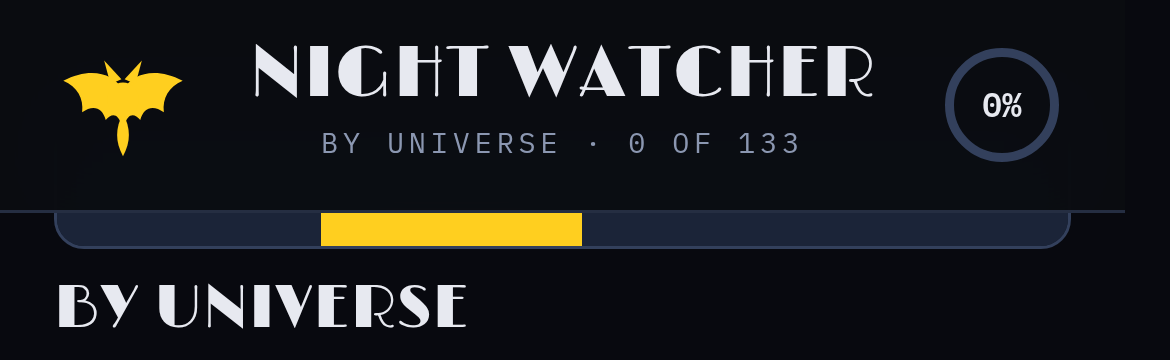
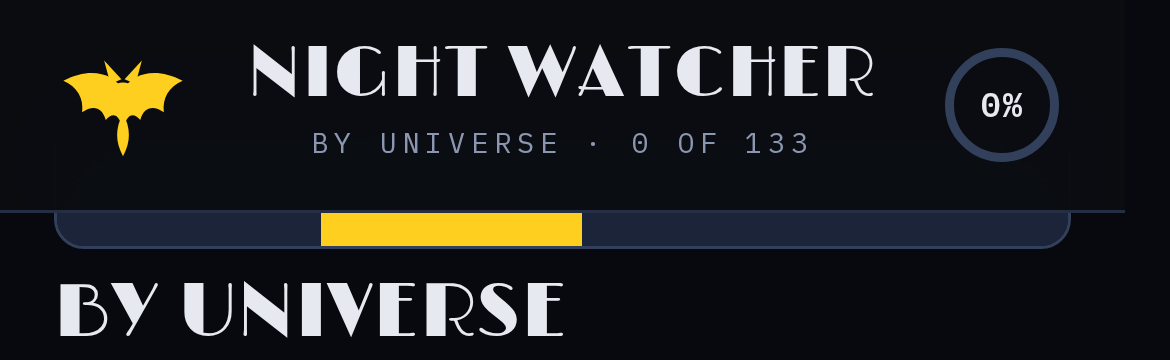
Add files via upload

diff --git a/docs/index.html b/docs/index.html
@@ -41,7 +41,7 @@
 <meta name="application-name" content="Night Watcher">
 <meta name="msapplication-TileColor" content="#0C111C">
 <meta name="msapplication-TileImage" content="mstile-144x144.png">
-<meta http-equiv="Content-Security-Policy" content="default-src 'none'; script-src 'sha256-mveooX+d1nDvuyGfLbQQbO2nfkmC6RJIhbQhHmuclJs='; style-src 'self' 'unsafe-inline'; font-src 'self'; img-src 'self' data:; manifest-src 'self'; worker-src 'self'; base-uri 'none'; form-action 'none'; object-src 'none'">
+<meta http-equiv="Content-Security-Policy" content="default-src 'none'; script-src 'sha256-Iym1FjqeDL4tFvP/+oKyjjoU5gTvB82LP6l9k8boErc='; style-src 'self' 'unsafe-inline'; font-src 'self'; img-src 'self' data:; manifest-src 'self'; worker-src 'self'; base-uri 'none'; form-action 'none'; object-src 'none'">
 <meta name="referrer" content="strict-origin-when-cross-origin">
 <script type="application/ld+json">{"@context":"https://schema.org","@graph":[{"@type":"WebSite","name":"Night Watcher","url":"https://nightwatcher.life/","description":"Batman watch orders that spoil nothing."},{"@type":"WebApplication","name":"Night Watcher","url":"https://nightwatcher.life/","applicationCategory":"EntertainmentApplication","image":"https://nightwatcher.life/share.png","dateModified":"2026-08-11","author":{"@type":"Person","name":"6ummy-Dev","url":"https://github.com/6ummy-Dev"},"creator":{"@type":"Person","name":"6ummy-Dev","url":"https://github.com/6ummy-Dev"},"sameAs":["https://github.com/6ummy-Dev/Night-Watcher","https://x.com/6ummy"],"operatingSystem":"Any","browserRequirements":"Requires JavaScript","isAccessibleForFree":true,"featureList":["No account and no sign-in","No advertising and nothing tracking what you watch","Progress stays in your browser and is never sent anywhere","Works offline","Spoiler-safe ordering by continuity"],"description":"Every Batman story — 133 films and 67 seasons of TV across 44 continuities — in watch orders that spoil nothing. By universe, by the arc of one life, or by release."},{"@type":"ItemList","name":"The essentials and the core route","description":"The 74 curated Batman titles — every essential and the whole core route — in spoiler-safe order.","numberOfItems":74,"itemListOrder":"https://schema.org/ItemListOrderAscending","itemListElement":[{"@type":"ListItem","position":1,"name":"Gotham (2014)"},{"@type":"ListItem","position":2,"name":"Batman: The Animated Series (1992)"},{"@type":"ListItem","position":3,"name":"Batman: Mask of the Phantasm (1993)"},{"@type":"ListItem","position":4,"name":"Batman & Mr. Freeze: SubZero (1998)"},{"@type":"ListItem","position":5,"name":"The New Batman Adventures (1998)"},{"@type":"ListItem","position":6,"name":"Batman: Mystery of the Batwoman (2003)"},{"@type":"ListItem","position":7,"name":"Justice League (2001)"},{"@type":"ListItem","position":8,"name":"Justice League Unlimited (2006)"},{"@type":"ListItem","position":9,"name":"Batman and Harley Quinn (2017)"},{"@type":"ListItem","position":10,"name":"Batman Beyond (1999)"},{"@type":"ListItem","position":11,"name":"Batman Beyond: Return of the Joker (2000)"},{"@type":"ListItem","position":12,"name":"Batman: Year One (2011)"},{"@type":"ListItem","position":13,"name":"Batman: The Killing Joke (2016)"},{"@type":"ListItem","position":14,"name":"Batman: Death in the Family (2020)"},{"@type":"ListItem","position":15,"name":"Batman: Under the Red Hood (2010)"},{"@type":"ListItem","position":16,"name":"The Dark Knight Returns — Part One (2012)"},{"@type":"ListItem","position":17,"name":"The Dark Knight Returns — Part Two (2013)"},{"@type":"ListItem","position":18,"name":"Batman: The Long Halloween — Part One (2021)"},{"@type":"ListItem","position":19,"name":"Batman: The Long Halloween — Part Two (2021)"},{"@type":"ListItem","position":20,"name":"Justice League: Warworld (2023)"},{"@type":"ListItem","position":21,"name":"Crisis on Infinite Earths — Part One (2024)"},{"@type":"ListItem","position":22,"name":"Crisis on Infinite Earths — Part Two (2024)"},{"@type":"ListItem","position":23,"name":"Crisis on Infinite Earths — Part Three (2024)"},{"@type":"ListItem","position":24,"name":"Batman: Gotham Knight (2008)"},{"@type":"ListItem","position":25,"name":"Batman: Gotham by Gaslight (2018)"},{"@type":"ListItem","position":26,"name":"Batman vs. Teenage Mutant Ninja Turtles (2019)"},{"@type":"ListItem","position":27,"name":"Batman: Soul of the Dragon (2021)"},{"@type":"ListItem","position":28,"name":"Injustice (2021)"},{"@type":"ListItem","position":29,"name":"The Doom That Came to Gotham (2023)"},{"@type":"ListItem","position":30,"name":"Aztec Batman: Clash of Empires (2025)"},{"@type":"ListItem","position":31,"name":"Dynamic Duo (2028)"},{"@type":"ListItem","position":32,"name":"The Batman vs. Dracula (2005)"},{"@type":"ListItem","position":33,"name":"Batman: Caped Crusader (2024)"},{"@type":"ListItem","position":34,"name":"Batman Begins (2005)"},{"@type":"ListItem","position":35,"name":"The Dark Knight (2008)"},{"@type":"ListItem","position":36,"name":"The Dark Knight Rises (2012)"},{"@type":"ListItem","position":37,"name":"The Batman (2022)"},{"@type":"ListItem","position":38,"name":"The Penguin (2024)"},{"@type":"ListItem","position":39,"name":"The Batman: Part II (2028)"},{"@type":"ListItem","position":40,"name":"Batman (1989)"},{"@type":"ListItem","position":41,"name":"Batman Returns (1992)"},{"@type":"ListItem","position":42,"name":"The LEGO Batman Movie (2017)"},{"@type":"ListItem","position":43,"name":"Batman (1943)"},{"@type":"ListItem","position":44,"name":"Batman — Complete series (1966)"},{"@type":"ListItem","position":45,"name":"Batman (1966)"},{"@type":"ListItem","position":46,"name":"Return of the Caped Crusaders (2016)"},{"@type":"ListItem","position":47,"name":"Batman vs. Two-Face (2017)"},{"@type":"ListItem","position":48,"name":"Batman: Assault on Arkham (2014)"},{"@type":"ListItem","position":49,"name":"Batman: Knightfall — Part 1 (2026)"},{"@type":"ListItem","position":50,"name":"Knightfall — Part 2: Knightquest (2026)"},{"@type":"ListItem","position":51,"name":"Knightfall — Part 3: KnightsEnd (2027)"},{"@type":"ListItem","position":52,"name":"Justice League: The New Frontier (2008)"},{"@type":"ListItem","position":53,"name":"Justice League: Crisis on Two Earths (2010)"},{"@type":"ListItem","position":54,"name":"Justice League: Doom (2012)"},{"@type":"ListItem","position":55,"name":"Justice League: Gods and Monsters (2015)"},{"@type":"ListItem","position":56,"name":"LEGO Batman: DC Super Heroes Unite (2013)"},{"@type":"ListItem","position":57,"name":"Challenge of the Super Friends (1978)"},{"@type":"ListItem","position":58,"name":"Batman: The Brave and the Bold (2008)"},{"@type":"ListItem","position":59,"name":"Scooby-Doo and Batman: The Brave and the Bold (2018)"},{"@type":"ListItem","position":60,"name":"Superman/Batman: Public Enemies (2009)"},{"@type":"ListItem","position":61,"name":"Superman/Batman: Apocalypse (2010)"},{"@type":"ListItem","position":62,"name":"Son of Batman (2014)"},{"@type":"ListItem","position":63,"name":"Batman vs. Robin (2015)"},{"@type":"ListItem","position":64,"name":"Batman: Bad Blood (2016)"},{"@type":"ListItem","position":65,"name":"Batman: Hush (2019)"},{"@type":"ListItem","position":66,"name":"LEGO DC Comics: Batman Be-Leaguered (2014)"},{"@type":"ListItem","position":67,"name":"Justice League: Gotham City Breakout (2016)"},{"@type":"ListItem","position":68,"name":"LEGO DC Batman: Family Matters (2019)"},{"@type":"ListItem","position":69,"name":"Young Justice (2010)"},{"@type":"ListItem","position":70,"name":"Batman v Superman: Dawn of Justice (2016)"},{"@type":"ListItem","position":71,"name":"Justice League (2017)"},{"@type":"ListItem","position":72,"name":"Batman Ninja (2018)"},{"@type":"ListItem","position":73,"name":"Batman Ninja vs. Yakuza League (2025)"},{"@type":"ListItem","position":74,"name":"Merry Little Batman (2023)"}]},{"@type":"FAQPage","mainEntity":[{"@type":"Question","name":"Which order should I watch Batman in?","acceptedAnswer":{"@type":"Answer","text":"Three honest answers instead of one fake one. By universe: Every universe kept whole, each in its own story order, and the universes themselves in the order their stories start. Bruce’s life: One life, in order — from before there is a Batman to after there is not. Release order: Straight release order, 1943–2028."}},{"@type":"Question","name":"Does this include the animated series?","acceptedAnswer":{"@type":"Answer","text":"Yes — all of it. 67 seasons of television ride alongside the 133 films, animated and live action both, and a switch narrows the shelf whenever you want it narrower."}},{"@type":"Question","name":"Do I have to watch everything?","acceptedAnswer":{"@type":"Answer","text":"No. 74 titles are marked as the essentials and the core route — the spine of the thing. Everything else is optional side material, labeled as exactly that."}},{"@type":"Question","name":"Is it really spoiler-safe?","acceptedAnswer":{"@type":"Answer","text":"That is the whole premise. Universes stay whole, and every ordering is built so nothing renders ahead of an entry it would give away."}},{"@type":"Question","name":"Where can I watch all of these?","acceptedAnswer":{"@type":"Answer","text":"Availability changes constantly and differs by country, so nothing here stores an answer that would rot — every entry carries a fresh where-to-watch search instead."}},{"@type":"Question","name":"Does it track what I watch?","acceptedAnswer":{"@type":"Answer","text":"No. There is no account and no sign-in, no advertising, and nothing tracking what you watch. What you tick stays in your browser and is never sent anywhere. It works offline, and it is free software under the AGPL."}},{"@type":"Question","name":"Where do the Joker films fit?","acceptedAnswer":{"@type":"Answer","text":"In their own continuity, and nowhere near the rest. They are Gotham stories with no Batman in them, so they sit in a universe of their own, marked optional — nothing else in the catalogue depends on having seen them."}}]}]}</script>
 <!-- No trademarked logos, symbols, or proprietary lettering are used anywhere in
@@ -104,7 +104,7 @@ header{position:sticky;top:0;z-index:30;background:var(--hdr);-webkit-backdrop-f
 .pies{display:flex;gap:10px;margin-bottom:18px;}
 .pie{flex:1;min-width:0;border:1px solid var(--line);border-radius:12px;background:var(--sunk);padding:13px 8px 11px;}
 .pietitle{font-family:var(--mono);font-size:8.5px;letter-spacing:.11em;text-transform:uppercase;color:var(--dust);margin:0 0 9px;text-align:center;}
-.pie svg{width:100%;max-width:148px;height:auto;display:block;margin:0 auto;}
+.pie svg{width:100%;max-width:240px;height:auto;display:block;margin:0 auto;}
 .pie svg g[data-seg]{cursor:pointer;}
 .piesub{font-family:var(--mono);font-size:8.5px;color:var(--dim);margin:9px 0 0;letter-spacing:.05em;text-align:center;line-height:1.5;}
 .pcent{font-family:var(--disp);font-size:19px;fill:var(--bone);}
@@ -127,14 +127,14 @@ main{flex:1;padding:18px 18px calc(var(--tab-h) + env(safe-area-inset-bottom) + 
 .viewing p{margin:0;flex:1;min-width:150px;font-size:13px;color:var(--dust);line-height:1.4;}
 .viewing button{font-family:var(--mono);font-size:10px;letter-spacing:.09em;text-transform:uppercase;color:var(--ink);background:var(--signal);border-radius:8px;padding:9px 12px;min-height:40px;font-weight:600;}
 .viewing button.ghost{background:none;color:var(--steel);border:1px solid var(--line2);font-weight:400;}
-.pathtitle{font-family:var(--deco);font-weight:400;letter-spacing:.02em;text-transform:uppercase;font-size:clamp(20px,5.2vw,27px);line-height:1;margin:0 0 10px;}
+.pathtitle{font-family:var(--deco);font-weight:400;letter-spacing:.02em;text-transform:uppercase;font-size:clamp(24px,6.5vw,36px);line-height:.94;margin:0 0 10px;}
 .modes{display:flex;gap:0;border:1px solid var(--line2);border-radius:10px;overflow:hidden;margin-bottom:10px;}
 .modes button{flex:1;padding:11px 6px;font-family:var(--mono);font-size:9.5px;letter-spacing:.09em;text-transform:uppercase;color:var(--dust);border-right:1px solid var(--line2);min-height:42px;}
 .modes button:last-child{border-right:0;}
 .modes button[aria-pressed="true"]{background:var(--bone);color:var(--ink);font-weight:600;}
 .themerow{max-width:230px;margin:28px auto 0;}
 .themerow button{min-height:34px;padding:8px 6px;font-size:8.5px;}
-.modenote{font-size:12.5px;color:var(--dim);margin:0 0 14px;line-height:1.45;}
+.modenote{font-size:15px;color:var(--dust);margin:0 0 14px;line-height:1.5;}
 
 .chips{display:flex;gap:7px;overflow-x:auto;padding:2px 0 12px;-webkit-overflow-scrolling:touch;scrollbar-width:none;}
 .chips::-webkit-scrollbar{display:none;}
@@ -408,7 +408,7 @@ html{scrollbar-color:var(--line2) transparent;scrollbar-gutter:stable;}
 .istats{display:flex;gap:18px;padding-top:12px;border-top:1px solid var(--line);font-family:var(--mono);font-size:9.5px;letter-spacing:.1em;text-transform:uppercase;color:var(--dim);flex-wrap:wrap;}
 .istats b{color:var(--bone);font-weight:600;margin-right:4px;}
 .homefoot{font-family:var(--mono);font-size:9px;letter-spacing:.08em;text-transform:uppercase;color:var(--dim);text-align:center;margin:30px 0 4px;line-height:1.8;}
-.buildline{display:block;margin-top:1em;text-align:center;}
+.buildline{display:block;margin-top:1em;text-align:center;font-family:var(--mono);font-size:9px;letter-spacing:.08em;text-transform:uppercase;line-height:1.8;}
 .homefoot a,.note a{color:inherit;text-decoration:underline;text-decoration-color:var(--line2);text-underline-offset:3px;}
 .homefoot a:hover,.note a:hover{color:var(--bone);text-decoration-color:currentColor;}
 #ringTrack{stroke:var(--line2);}
@@ -1359,7 +1359,7 @@ function pathName(id){
   for(var i = 0; i < PATHS.length; i++){ if(PATHS[i][0] === id) return PATHS[i][1]; }
   return "";
 }
-var BUILD = "3.8.0";
+var BUILD = "3.8.1";
 var BUILT = "2026-08-11";
 var KEY = "batwatch-v3";
 var SITE = "https://nightwatcher.life/";
@@ -1615,7 +1615,7 @@ function buildGroups(){
     });
   } else {
     DECADES.forEach(function(dec, i){
-      var fs = FILMS.filter(function(f){ return visible(f) && f.y >= dec.k && f.y < dec.k + 10; });
+      var fs = groupFilms("d" + dec.k);
       fs.sort(function(a,b){ return (a.y - b.y) || a.t.localeCompare(b.t); });
       out.push({key:"d"+dec.k, tag:String(i+1), name:dec.name, note:dec.note, films:fs});
     });
@@ -1694,7 +1694,9 @@ function matches(f, q){
 function groupFilms(gk){
   var kind = gk.charAt(0), n = parseInt(gk.slice(1), 10);
   return FILMS.filter(function(f){
-    return visible(f) && (kind === "e" ? f.e === n : f.gi === n);
+    return visible(f) && (kind === "e" ? f.e === n
+         : kind === "d" ? (f.y >= n && f.y < n + 10)
+         : f.gi === n);
   });
 }
 function subOf(f){
@@ -2487,7 +2489,7 @@ function progRows(groups, colFor){
   return {rows:rows, n:n, done:done};
 }
 function viewStats(c){
-  var uniGroups = [], lifeGroups = [];
+  var uniGroups = [], lifeGroups = [], decGroups = [];
   PATH.forEach(function(g, gi){
     var fs = groupFilms("c" + gi);
     if(fs.length) uniGroups.push({key:"c"+gi, name:g.name, films:fs});
@@ -2496,10 +2498,17 @@ function viewStats(c){
     var fs = groupFilms("e" + era.k);
     if(fs.length) lifeGroups.push({key:"e"+era.k, name:era.name, k:era.k, films:fs});
   });
+  DECADES.forEach(function(dec){
+    var fs = groupFilms("d" + dec.k);
+    if(fs.length) decGroups.push({key:"d"+dec.k, name:dec.name, films:fs});
+  });
+
+  var donutGroups = S.mode === "life" ? lifeGroups : S.mode === "release" ? decGroups : uniGroups;
+  var donutWord = S.mode === "life" ? "eras" : S.mode === "release" ? "decades" : "universes";
 
   var html = masterChooser() + '<div class="pies" style="margin-top:18px">'+
-    donut(uniGroups, "The universes", uniGroups.length + " universes \u00b7 tap a slice") +
-    donut(lifeGroups, "Bruce\u2019s life", lifeGroups.length + " eras \u00b7 tap a slice") +
+    donut(donutGroups, GRIDNAME[S.mode] || "The universes",
+          donutGroups.length + " " + donutWord + " \u00b7 tap a slice") +
     '</div>'+
     scoreboard(c) +
     shareCardBlock();
@@ -2509,6 +2518,9 @@ function viewStats(c){
 
   var l = progRows(lifeGroups, function(g){ return g.k === 0 ? "var(--steel)" : "var(--signal)"; });
   html += progFold("era", "By era of Bruce\u2019s life", l.done+" of "+l.n+" complete", l.rows);
+
+  var dc = progRows(decGroups, null);
+  html += progFold("dec", "By decade", dc.done+" of "+dc.n+" complete", dc.rows);
 
   var bkBehind = marksSince(Math.max(S.lastExportAt || 0, S.bkDismissAt || 0));
   html += '<div class="bk"><h2>Your data</h2>'+

diff --git a/qa/smoke.js b/qa/smoke.js
@@ -1075,8 +1075,26 @@ win.addEventListener("load", function(){
     S.tab = "stats"; win.render();
     check("Progress has no ratings list",
           doc.getElementById("view").textContent.indexOf("Your ratings") < 0);
-    check("Progress still shows the donuts and backup tools",
+    check("Progress still shows the donut and backup tools",
           !!doc.querySelector("#view .pies") && !!doc.querySelector('[data-act="mkcode"]'));
+
+    /* --- 3.8.1: one donut, the belt's, and it follows the belt. Two donuts
+       drew "The universes" and "Bruce's life" whatever was chosen; now the
+       single chart is the chosen ordering's, re-rendered on a belt tap, so a
+       mode that is not the donut's is a state that cannot exist. Each mode is
+       driven and the slices must all carry that mode's key prefix. --- */
+    [["continuity","c"], ["life","e"], ["release","d"]].forEach(function(pair){
+      S.mode = pair[0]; win.render();
+      var svgs = doc.querySelectorAll("#view .pies svg");
+      var segs = doc.querySelectorAll("#view .pies g[data-seg]");
+      var wrong = [].filter.call(segs, function(g){
+        return g.getAttribute("data-seg").charAt(0) !== pair[1]; });
+      check("the Progress donut follows the belt to " + pair[0],
+            svgs.length === 1 && segs.length > 0 && wrong.length === 0,
+            svgs.length + " chart(s), " + segs.length + " slices, " +
+            wrong.length + " from another ordering");
+    });
+    S.mode = "life"; win.render();
     S.tab = "watch"; S.filter = "all"; win.render();
     check("The Path still carries the rating",
           doc.getElementById("view").textContent.indexOf("\u2605\u2605\u2605\u2605\u2605") >= 0);

diff --git a/docs/sw.js b/docs/sw.js
@@ -16,7 +16,7 @@
  * ~190 KB index.html, so a stale cache means a stale catalogue AND stale code
  * with no way to push a fix.
  */
-var VERSION = "3.8.0";
+var VERSION = "3.8.1";
 var CACHE   = "night-watcher-" + VERSION;
 /* icon-192.png is in the shell because index.html's <head> now references it
    directly for rel=icon and apple-touch-icon (it used to inline the bytes). */

diff --git a/README.md b/README.md
@@ -25,7 +25,7 @@ export taken while it was up still restores anywhere.
 - **Shared links are views, not takeovers.** Following someone's `#life` link shows you their ordering and offers to adopt it, rather than silently rewriting yours.
 - **Three tiers.** Everything is tagged **Essential**, **Core**, or **Optional** — tiers are exclusive, with Essential outranking Optional — plus modifiers (Short, Interactive, Not out yet). Nothing is untagged.
 - **Home dashboard.** Resume card, tier meters, scoreboard, a tappable grid of every universe, and your recent watches.
-- **Progress.** Two donut charts — one for the universes, one for the eras of Bruce's life — where each slice is sized by its share of the catalogue and fills as you watch. Tap any slice to jump straight there.
+- **Progress.** One donut chart — the chosen ordering's, and it follows the belt: universes, eras of Bruce's life, or decades of release — where each slice is sized by its share of the catalogue and fills as you watch. Tap any slice to jump straight there; the fold lists below carry the same jumps for all three orderings.
 - **Backup & transfer.** A compact code, a link that restores everything when opened on another device, and a full JSON export/import — all client-side, built on frozen IDs so backups stay valid forever. The code is versioned and read tolerantly: it carries your chosen path, and a code written by a newer build still restores everything an older one understands.
 - **Shareable views.** Link straight to a view: [`#life`](https://nightwatcher.life/#life) for the chronology of Bruce's life, `#release`, `#universes`, `#progress` — combine with scope like `#life-series`.
 - **Progress that sticks.** Watched, skipped and star ratings saved in your browser (localStorage). No accounts, no server; your watch data never leaves your device — and if the browser refuses to save (Private Browsing, a full quota, some in-app webviews) the app says so in the header instead of losing your evening silently.
@@ -39,7 +39,7 @@ These are the constraints the app is built around, not features nobody has got t
 - **No accounts, ever.** Nothing to sign up for, nothing to log into.
 - **No server.** Progress lives in your browser and is never transmitted. Backup and transfer happen through a code you carry yourself.
 - **No third-party code** — *guarded.* Not one line vendored, and **nothing fetched at runtime at all** — the last exception, a cookie-free analytics beacon, came out in 3.2.0, and `qa/guards.js` now fails on any external script rather than allowing one by name. The app runs with the network off. **The guard reads this repository, and on 8 August 2026 the served page was read as well: what a visitor receives is this file, plus nothing.** Two `<script>` tags, no injected third, and the Content-Security-Policy on the wire is the one in the file — ten directives, one `sha256`. *(This bullet said for two days that Cloudflare's edge injected a script of its own. It does not; that was a TLS-intercepting VPN on the author's own machine. `ops/c0-edge-injection.md`, maintainer-local, not in this repository.)* Open `docs/index.html` from disk, or serve it from any other host, and what runs is exactly what you can read.
-- **A weight budget** — *guarded.* `docs/index.html` must stay under 200 KB raw and 80 KB gzipped; it is currently 198 KB / 57 KB (rounded — 3.6.0 added the belt's drop: tap the parked peek and the belt comes down over the list with its pouches open in place, hung off the strip by a CSS anchor rather than a measurement; the reasoning went to NOTES.md, because index.html carries the header and the slug freeze and nothing else). **The page was never the whole story.** 2.7.0 subset five of the six webfonts, taking the fonts from 116 KB to 62 KB, so the first visit costs 241 KB rather than 296 — an 18% cut that the page's own budget could not see, because it does not count them. The ceilings have moved four times — 150 → 160 in 1.9.5 (ratings data), 160 → 165 in 2.0.0 (the progress card), and 165 → 200 raw with the first-ever gzip raise, 50 → 80, in 2.5.0 (the full-catalogue seed) — every raise an owner's call recorded in the CHANGELOG, never a drift. A single file that opens instantly is the whole premise, and arithmetic is the only thing protecting it.
+- **A weight budget** — *guarded.* `docs/index.html` must stay under 200 KB raw and 80 KB gzipped; it is currently 199 KB / 57 KB (rounded — 3.6.0 added the belt's drop: tap the parked peek and the belt comes down over the list with its pouches open in place, hung off the strip by a CSS anchor rather than a measurement; the reasoning went to NOTES.md, because index.html carries the header and the slug freeze and nothing else). **The page was never the whole story.** 2.7.0 subset five of the six webfonts, taking the fonts from 116 KB to 62 KB, so the first visit costs 241 KB rather than 296 — an 18% cut that the page's own budget could not see, because it does not count them. The ceilings have moved four times — 150 → 160 in 1.9.5 (ratings data), 160 → 165 in 2.0.0 (the progress card), and 165 → 200 raw with the first-ever gzip raise, 50 → 80, in 2.5.0 (the full-catalogue seed) — every raise an owner's call recorded in the CHANGELOG, never a drift. A single file that opens instantly is the whole premise, and arithmetic is the only thing protecting it.
 - **No comparison, no leaderboards, no social graph.** The moment progress is comparable between people it needs accounts and a server, and the two promises above stop being true.
 
 ## The chronology
@@ -149,7 +149,7 @@ independent — and CI runs them on every push and again nightly. All three
 counts in this paragraph and the one above are themselves guarded, because they
 have drifted twice.
 
-There is also `qa/smoke.js`, a headless render test that boots the real page and drives what static analysis can't reach: rendering, scope switching, hostile import, and the in-page backup parser against old, forward-dated, pasted and malformed codes. It boots a second copy with `localStorage` throwing, which is the only way to observe the silent-save failure at all. It drives the path end to end: the chooser on first run, choosing through the real click handler, a reload returning on the same path and theme, a 1.1.0 save migrating without being asked again, a shared link that does not change what is stored, and a borrowed ordering that can always be stepped back out of, and every one of the eight shareable link tokens. 306 checks. It needs jsdom (`npm i -D jsdom`) and skips itself if that isn't installed.
+There is also `qa/smoke.js`, a headless render test that boots the real page and drives what static analysis can't reach: rendering, scope switching, hostile import, and the in-page backup parser against old, forward-dated, pasted and malformed codes. It boots a second copy with `localStorage` throwing, which is the only way to observe the silent-save failure at all. It drives the path end to end: the chooser on first run, choosing through the real click handler, a reload returning on the same path and theme, a 1.1.0 save migrating without being asked again, a shared link that does not change what is stored, and a borrowed ordering that can always be stepped back out of, and every one of the eight shareable link tokens. 309 checks. It needs jsdom (`npm i -D jsdom`) and skips itself if that isn't installed.
 
 ## Releasing
 

diff --git a/NOTES.md b/NOTES.md
@@ -296,10 +296,14 @@ to one and not the other made the count stop describing the list.
 
 ### `groupFilms()`
 
-One definition of "in this group", for Home's grid, Progress's rows and both
-donuts. It was written out seven times; a rule added to one of them and not
+One definition of "in this group", for Home's grid, Progress's rows and the
+donut. It was written out seven times; a rule added to one of them and not
 the others made two tabs quietly disagree about the same group. Keys are
-goToGroup()'s: "c" plus a PATH index, "e" plus an era.
+goToGroup()'s: "c" plus a PATH index, "e" plus an era, and — since 3.8.1,
+when Release order got its donut and its fold — "d" plus a decade's first
+year. The decade window lived only inside buildGroups() until then, which
+was the same seven-copies mistake one branch smaller: the moment a second
+caller needed it, it moved in here.
 
 ### `tierOf()`
 
@@ -2910,3 +2914,47 @@ do not exist is anti-hardening. DNSSEC — the scan's one classic red — is a
 panel action by necessity (DNS is already panel-owned per the wrangler
 custom-domain rationale) and its wire check is written down in RELEASING.md
 next to this feature's.
+
+
+## One donut, the belt's — and the footer finds its voice
+
+The 3.8.1 round is three owner calls about the app agreeing with itself, and
+the donut is the one with an actual defect underneath. Progress drew two
+charts — the universes and the eras — whatever the belt said. Two of three
+orderings had a donut; the third was the hole: choose Release order and
+neither chart was yours, and the "chosen ordering" premise (the 2.0.0 Belt,
+the whole reason `S.mode` exists) stopped one tab short of Progress. The fix
+is subtraction, not addition: ONE chart, keyed off `S.mode` exactly the way
+Home's grid heading already is (`GRIDNAME[S.mode]`), re-rendered by the same
+`render()` a belt tap already fires. There is no listener to add and no state
+to sync — a donut that disagrees with the belt is now a state that cannot be
+rendered, which is the only kind of "reactive" worth shipping in this file.
+
+Two things came with it, both consequences rather than features. The chart
+doubles its rendered cap (148 → 240px) — with one chart the flex row's excuse
+for small is gone, and the slices are tap targets, which puts them under the
+44px conversation the guards already have about everything else; a slice of a
+148px ring split two-up never had a defensible answer there. And Release
+order's donut needed decade groups on Progress, so the "d" kind joined
+`groupFilms()` and a third fold — By decade — joined the two below the chart.
+The fold is not decoration: the slices are pointer-only on the record
+(`.srow`'s own entry, above), so every donut a pointer can tap must have rows
+a keyboard can reach, and until now the decades had neither.
+
+The other two calls are typography agreeing across views. The Path's title
+wore `clamp(20px,5.2vw,27px)` against the Next up hero's
+`clamp(24px,6.5vw,36px)` — the app's main view had its smallest hero — and
+its `.modenote` description sat at 12.5px in `--dim` while both hero blurbs
+speak at 14.5–15px in `--dust`. Both now carry the hero scale. And the two
+lines that read as "footer" — Home's colophon and Progress's build line —
+said the same kind of thing in different typefaces: `.homefoot` is mono, 9px,
+uppercase, tracked; `.buildline` was 12.5px body type. The build line now
+carries the same mono voice, as CSS on the class it already had. Deliberate:
+the markup did not move. Guard 98 pins the `updated `+BUILT+` … read the
+source` shape with no tag between the date and the anchor, negtest273 pins
+the ` · ` before the link at ≤10 characters, and negtest330's fixture anchors
+on `.buildline{display:block;` — so the new declarations are APPENDED to the
+rule, and the byte the fixtures hold onto is exactly where they left it.
+`watchNotes()` on Next up and the legend on The Path stayed body type on
+purpose: they are content that happens to sit last, not the app signing its
+name.

diff --git a/CHANGELOG.md b/CHANGELOG.md
@@ -30,6 +30,48 @@ to saved progress would also be MAJOR, and should never happen, because every
 
 Nothing yet.
 
+## [3.8.1] — 2026-08-11
+
+**A UI coherence pass, owner-directed: one footer voice, one hero scale, and
+one progress donut — the belt's. PATCH because nothing new enters the
+catalogue and no stored format moves; the app just stops disagreeing with
+itself about type and about which ordering the donut answers for.**
+
+### Changed
+
+- **Progress draws one donut — the chosen ordering's — and it follows the
+  belt.** Two charts (universes, eras) rendered whatever was chosen, which
+  meant the chosen ordering could be the one WITHOUT a chart: pick Release
+  order and neither donut was yours. Now the single chart is `S.mode`'s —
+  universes, eras, or decades — and a belt tap re-renders it in place, so
+  the donut and the belt cannot disagree. It also doubles in rendered size
+  (148 → 240px cap), which is the touch-target half of the argument: the
+  slices are the tap surface, and slices on a 148px ring split two-up were
+  below any comfortable finger. Release order gets its first donut (decade
+  slices) and, with it, a **By decade** fold below the existing two — the
+  keyboard route the pointer-only slices always relied on, same as
+  universes and eras.
+- **The Path hero matches the other heroes.** `.pathtitle` was
+  `clamp(20px,5.2vw,27px)` against the Next up hero's
+  `clamp(24px,6.5vw,36px)` — the page-level title of the app's main view
+  was its smallest hero. It now carries the hero scale, and `.modenote`
+  (its description) steps up 12.5 → 15px in the hero blurb's colour.
+- **The footers speak in one voice.** Home's footer is mono, 9px,
+  uppercase, tracked; the Progress build line was body type at 12.5px —
+  same role, different typeface, size and casing. `.buildline` now carries
+  the same mono treatment. CSS only: the markup, the guarded
+  `Build · updated · read the source` shape, and the link styling are
+  untouched.
+
+### QA
+
+- Smoke gains three checks (309): each belt position drives Progress and
+  asserts exactly one chart whose every slice carries that ordering's key
+  prefix. The browser check's jump drives grow from five to seven — the
+  decades donut and the decades fold — and the donut drives now set the
+  mode they expect, since a donut that follows the belt is only findable
+  on its own ordering.
+
 ## [3.8.0] — 2026-08-11
 
 **The durability round, plus the one item the Radar scan actually gated on.
